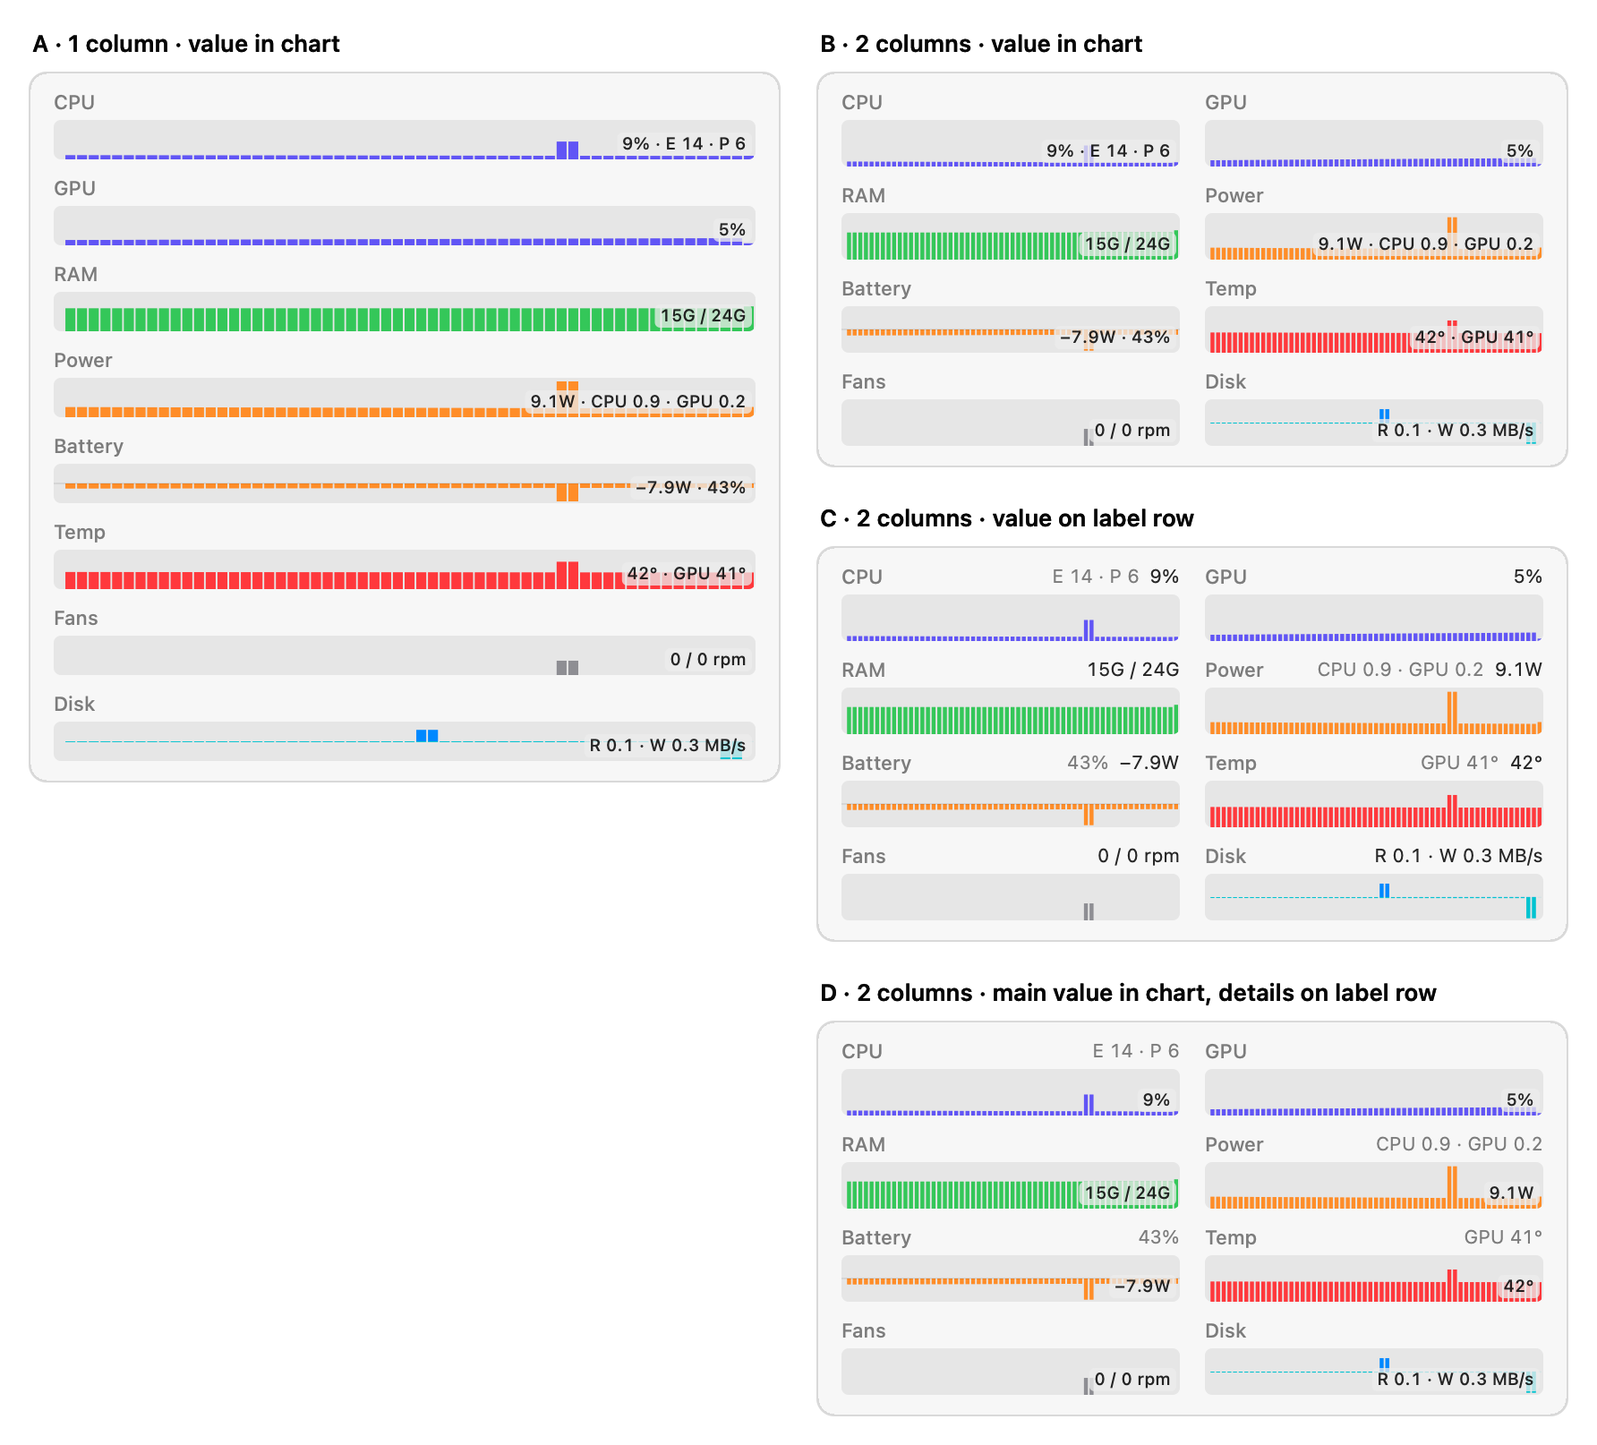
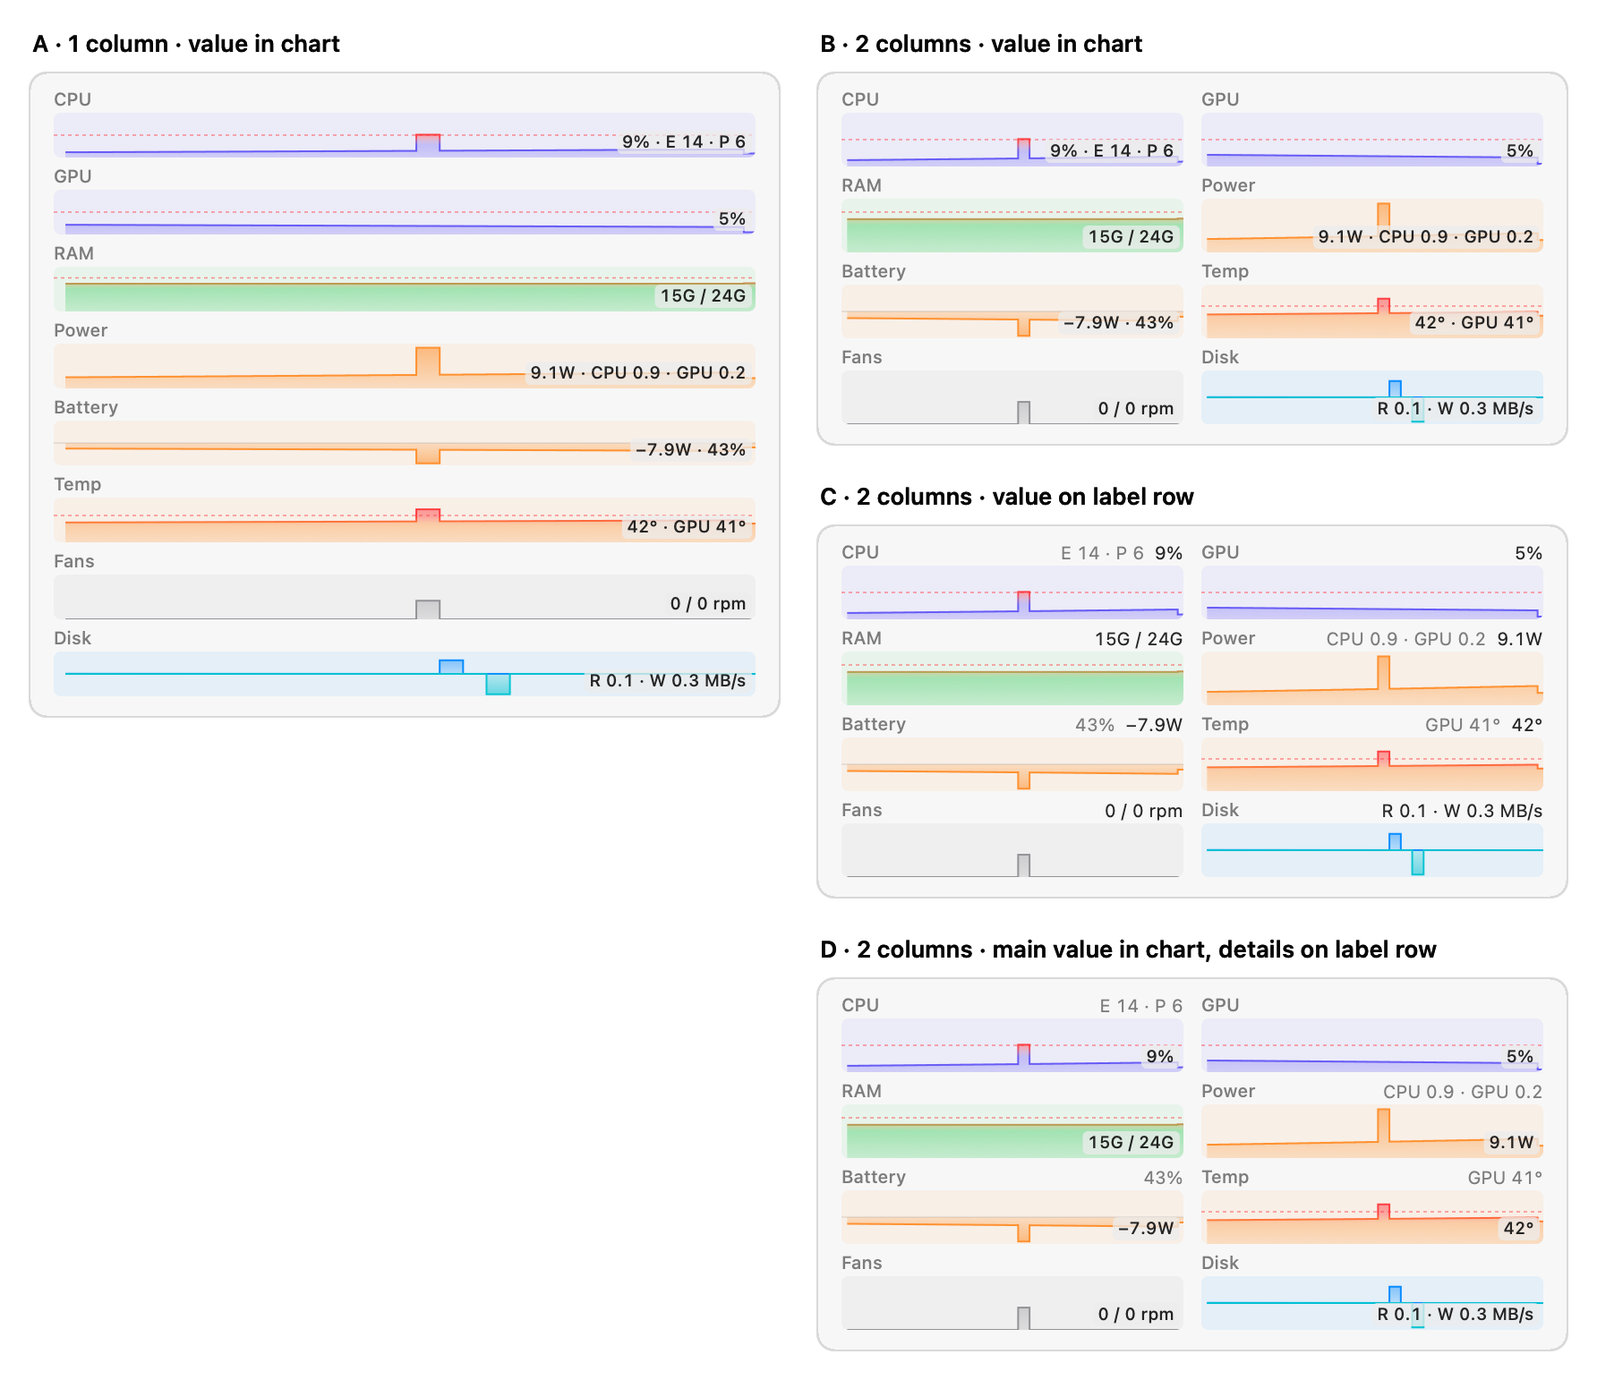
Charts: warning colors
Bars blend from the chart's color into red over the last quarter of the
scale below the warning limit, and are fully red at the limit and above.
The color follows the value, not the bar's height, so it means the same
on a zoomed-in scale. The blend is mixed in OKLab, so it changes evenly
instead of passing through a brighter band.

Values at or over a limit show in red, live and when hovering, as in the
menu bar. Temp is now orange so its red stands out.

Snapshot mode also renders the menu with values over the limits
(dropdown-warning-*.png). README and screenshots updated.

diff --git a/Sources/MacMonIndicator/ChartsView.swift b/Sources/MacMonIndicator/ChartsView.swift
@@ -138,6 +138,8 @@ final class ChartsView: NSView {
                                                               .foregroundColor: NSColor.secondaryLabelColor]
     private let chipAttrs: [NSAttributedString.Key: Any] = [.font: NSFont.monospacedDigitSystemFont(ofSize: 9.5, weight: .medium),
                                                             .foregroundColor: NSColor.labelColor]
+    private lazy var hotMainAttrs = mainAttrs.merging([.foregroundColor: NSColor.systemRed]) { $1 }
+    private lazy var hotChipAttrs = chipAttrs.merging([.foregroundColor: NSColor.systemRed]) { $1 }
 
     override init(frame: NSRect) {
         super.init(frame: frame)
@@ -265,9 +267,10 @@ final class ChartsView: NSView {
                 history.window(tier: tier, series: down, now: now, avg: &avgBuf2, max: &maxBuf2)
             }
             let r = range(row)
+            let limit = row.limit?(thresholds, latest)
             switch row.shape {
             case .up:
-                drawBars(ctx, rect, bw, avgBuf, maxBuf, r.lo, r.hi, row.color, from: .bottom)
+                drawBars(ctx, rect, bw, avgBuf, maxBuf, r.lo, r.hi, row.color, from: .bottom, warn: warnRange(row, limit: limit))
             case .signed:
                 drawBars(ctx, rect, bw, avgBuf, maxBuf, 0, r.hi, row.color, from: .center)
             case .mirrored:
@@ -278,7 +281,7 @@ final class ChartsView: NSView {
             }
 
             // Warning limit as a dashed line, if it is inside the visible range.
-            if let limit = row.limit?(thresholds, latest), limit > r.lo, limit < r.hi {
+            if let limit, limit > r.lo, limit < r.hi {
                 let y = rect.maxY - CGFloat((limit - r.lo) / (r.hi - r.lo)) * rect.height
                 ctx.setStrokeColor(NSColor.systemRed.withAlphaComponent(0.55).cgColor)
                 ctx.setLineWidth(0.75)
@@ -310,9 +313,9 @@ final class ChartsView: NSView {
             ctx.restoreGState()
 
             if offscreen {
-                let v = values(row, now: now)
+                let v = values(row, now: now, thresholds: thresholds)
                 if let line = labelLine(v, c) { drawLabel(v, line) }
-                if let chip = v.chip { drawChip(chip, at: chipRect(chip, in: rect)) }
+                if let chip = v.chip { drawChip(chip, at: chipRect(chip, in: rect), hot: v.hot) }
             }
         }
     }
@@ -322,21 +325,27 @@ final class ChartsView: NSView {
     /// The value texts of one chart, placed as the layout setting says.
     fileprivate struct Values: Equatable {
         var labelMain: String?, labelDetail: String?, chip: String?
+        /// The main value is at or over the warning limit: it shows in red, as in the menu bar.
+        var hot = false
     }
 
     /// Values at the hovered moment, or live.
-    private func values(_ row: Row, now: TimeInterval) -> Values {
-        let t: (main: String, detail: String?)
+    private func values(_ row: Row, now: TimeInterval, thresholds: Thresholds) -> Values {
+        let value: (Series) -> Float, live: Sample?
         if let h = hoverIndex, let history {
-            t = row.text({ history.value(tier: self.tier, series: $0, index: h, now: now) }, nil)
+            value = { history.value(tier: self.tier, series: $0, index: h, now: now) }
+            live = nil
         } else {
-            let live = latest
-            t = row.text({ live?.value($0) ?? .nan }, live)
+            let l = latest
+            value = { l?.value($0) ?? .nan }
+            live = l
         }
+        let t = row.text(value, live)
+        let hot = row.limit?(thresholds, latest).map { value(row.series) >= $0 } ?? false
         switch layout.value {
-        case .chart: return Values(chip: [t.main, t.detail].compactMap { $0 }.joined(separator: " · "))
-        case .label: return Values(labelMain: t.main, labelDetail: t.detail)
-        case .split: return Values(labelDetail: t.detail, chip: t.main)
+        case .chart: return Values(chip: [t.main, t.detail].compactMap { $0 }.joined(separator: " · "), hot: hot)
+        case .label: return Values(labelMain: t.main, labelDetail: t.detail, hot: hot)
+        case .split: return Values(labelDetail: t.detail, chip: t.main, hot: hot)
         }
     }
 
@@ -373,12 +382,12 @@ final class ChartsView: NSView {
         // Offscreen (snapshots) there are no layers to show; draw(_:) draws the values then.
         overlay.isHidden = window == nil
         guard window != nil else { return }
-        let cs = cells(), now = Date().timeIntervalSince1970
+        let cs = cells(), now = Date().timeIntervalSince1970, thresholds = Settings.shared.thresholds
         overlay.prepare(count: cs.count)
         for (c, l) in zip(cs, overlay.cells) {
             if let h = hoverIndex { l.cursor.frame = cursorRect(c, h) }
             l.cursor.isHidden = hoverIndex == nil
-            let v = values(c.row, now: now)
+            let v = values(c.row, now: now, thresholds: thresholds)
             guard v != l.values || c.chart != l.chart || c.origin != l.origin else { continue }
             l.values = v
             l.chart = c.chart
@@ -386,7 +395,7 @@ final class ChartsView: NSView {
             let line = labelLine(v, c)
             l.label.show(line?.rect) { [weak self] in if let line { self?.drawLabel(v, line) } }
             let chip = v.chip.map { (text: $0, rect: chipRect($0, in: c.chart)) }
-            l.chip.show(chip?.rect) { [weak self] in if let chip { self?.drawChip(chip.text, at: chip.rect) } }
+            l.chip.show(chip?.rect) { [weak self] in if let chip { self?.drawChip(chip.text, at: chip.rect, hot: v.hot) } }
         }
     }
 
@@ -403,9 +412,9 @@ final class ChartsView: NSView {
                          mainX: mainX, detailX: detailX)
     }
 
-    /// Main value in the label color, details dimmer before it.
+    /// Main value in the label color (red when over the limit), details dimmer before it.
     private func drawLabel(_ v: Values, _ line: LabelLine) {
-        (v.labelMain as NSString?)?.draw(at: NSPoint(x: line.mainX, y: line.rect.minY), withAttributes: mainAttrs)
+        (v.labelMain as NSString?)?.draw(at: NSPoint(x: line.mainX, y: line.rect.minY), withAttributes: v.hot ? hotMainAttrs : mainAttrs)
         (v.labelDetail as NSString?)?.draw(at: NSPoint(x: line.detailX, y: line.rect.minY), withAttributes: detailAttrs)
     }
 
@@ -416,12 +425,12 @@ final class ChartsView: NSView {
     }
 
     /// Small value chip, translucent so bars still show around it.
-    private func drawChip(_ text: String, at chip: CGRect) {
+    private func drawChip(_ text: String, at chip: CGRect, hot: Bool) {
         guard let ctx = NSGraphicsContext.current?.cgContext else { return }
         ctx.setFillColor(NSColor.windowBackgroundColor.withAlphaComponent(0.75).cgColor)
         ctx.addPath(CGPath(roundedRect: chip, cornerWidth: 3, cornerHeight: 3, transform: nil))
         ctx.fillPath()
-        (text as NSString).draw(at: NSPoint(x: chip.minX + 3, y: chip.minY + 0.5), withAttributes: chipAttrs)
+        (text as NSString).draw(at: NSPoint(x: chip.minX + 3, y: chip.minY + 0.5), withAttributes: hot ? hotChipAttrs : chipAttrs)
     }
 
     /// Over the charts: per chart a cursor layer, which only ever moves, and two small text
@@ -492,10 +501,27 @@ final class ChartsView: NSView {
 
     private enum Anchor { case bottom, top, center }
 
+    /// How far below the warning limit bars start turning red, as a share of the chart's full
+    /// (unzoomed) scale: 25 points for percentages and temperatures, a quarter of total RAM.
+    private static let warnBand: Float = 0.25
+
+    /// Where the red blend starts and ends for a row, or nil without a limit.
+    private func warnRange(_ row: Row, limit: Float?) -> (start: Float, limit: Float)? {
+        guard let limit, limit > 0 else { return nil }
+        var full = row.scale
+        if case .smart(_, let otherwise) = full { full = otherwise }
+        return (max(0, limit - Self.warnBand * range(row, full).hi), limit)
+    }
+
     /// Bars per bucket, no smoothing: a faint layer for the bucket max, a gradient fill for the
     /// average (strong at the tip, nearly clear at the base), and a crisp stepped edge on top.
+    ///
+    /// With a warning range (`warn`), the color follows the value: the chart's color below
+    /// `start`, blending into red up to `limit`, red from there up. It depends on the value, not on
+    /// the bar's height, so it means the same on a zoomed-in scale.
     private func drawBars(_ ctx: CGContext, _ rect: CGRect, _ bw: CGFloat, _ avg: [Float], _ mx: [Float],
-                          _ lo: Float, _ hi: Float, _ color: NSColor, from anchor: Anchor) {
+                          _ lo: Float, _ hi: Float, _ color: NSColor, from anchor: Anchor,
+                          warn: (start: Float, limit: Float)? = nil) {
         guard hi > lo else { return }
         // Buckets touch (a stepped area under the edge line); the slight overlap avoids hairline seams.
         let width = bw + 0.3
@@ -526,18 +552,44 @@ final class ChartsView: NSView {
         }
         let visible: (Float) -> Bool = { $0.isFinite && height($0) > 0.01 }
 
+        // Warning colors, only for upward bars and only when some value reaches the fade.
+        let heat: ((CGFloat, CGFloat) -> CGGradient?)? = {
+            guard anchor == .bottom, let warn, warn.limit > warn.start,
+                  mx.contains(where: { $0 > warn.start }) || avg.contains(where: { $0 > warn.start }) else { return nil }
+            return { top, bottom in
+                Self.heatGradient(color, lo: lo, hi: hi, fadeStart: warn.start, limit: warn.limit, alpha: (top, bottom))
+            }
+        }()
+        /// Fills the current path with a top-to-bottom gradient over the chart.
+        func fill(_ gradient: CGGradient) {
+            ctx.saveGState()
+            ctx.clip()
+            ctx.drawLinearGradient(gradient, start: CGPoint(x: 0, y: rect.minY), end: CGPoint(x: 0, y: rect.maxY), options: [])
+            ctx.restoreGState()
+        }
+
         // Peaks: faint solid bars.
-        ctx.setFillColor(color.withAlphaComponent(0.16).cgColor)
-        ctx.beginPath()
-        for (i, v) in mx.enumerated() where visible(v) { ctx.addRect(barRect(i, v)) }
-        ctx.fillPath()
+        let peaks = CGMutablePath()
+        for (i, v) in mx.enumerated() where visible(v) { peaks.addRect(barRect(i, v)) }
+        if !peaks.isEmpty {
+            ctx.addPath(peaks)
+            if let g = heat?(0.16, 0.16) {
+                fill(g)
+            } else {
+                ctx.setFillColor(color.withAlphaComponent(0.16).cgColor)
+                ctx.fillPath()
+            }
+        }
 
         // Average: gradient fill, clipped to the bars.
         let path = CGMutablePath()
         for (i, v) in avg.enumerated() where visible(v) { path.addRect(barRect(i, v)) }
-        if !path.isEmpty, let gradient = CGGradient(colorsSpace: nil, colors: [color.withAlphaComponent(0.5).cgColor,
-                                                                             color.withAlphaComponent(0.04).cgColor] as CFArray,
-                                                   locations: [0, 1]) {
+        if !path.isEmpty, let g = heat?(0.5, 0.04) {
+            ctx.addPath(path)
+            fill(g)
+        } else if !path.isEmpty, let gradient = CGGradient(colorsSpace: nil, colors: [color.withAlphaComponent(0.5).cgColor,
+                                                                                    color.withAlphaComponent(0.04).cgColor] as CFArray,
+                                                          locations: [0, 1]) {
             ctx.saveGState()
             ctx.addPath(path)
             ctx.clip()
@@ -562,16 +614,48 @@ final class ChartsView: NSView {
             edge.addLine(to: CGPoint(x: x + bw, y: y))
             last = i
         }
-        ctx.setStrokeColor(color.withAlphaComponent(0.95).cgColor)
         ctx.setLineWidth(1)
         ctx.setLineJoin(.miter)
         ctx.addPath(edge)
-        ctx.strokePath()
+        if !edge.isEmpty, let g = heat?(0.95, 0.95) {
+            ctx.replacePathWithStrokedPath()
+            fill(g)
+        } else {
+            ctx.setStrokeColor(color.withAlphaComponent(0.95).cgColor)
+            ctx.strokePath()
+        }
 
         if anchor == .center {
             ctx.setFillColor(NSColor.labelColor.withAlphaComponent(0.15).cgColor)
             ctx.fill(CGRect(x: rect.minX, y: rect.midY - 0.25, width: rect.width, height: 0.5))
         }
+    }
+
+    /// A top-to-bottom gradient over a chart showing `lo...hi`, colored by the value at each height:
+    /// `color` below `fadeStart`, red from `limit` up, blended in between. The blend is mixed in
+    /// OKLab, so it changes evenly (purple → rose → red) instead of passing through a brighter
+    /// magenta. Alpha runs from `alpha.top` to `alpha.bottom`.
+    private static func heatGradient(_ color: NSColor, lo: Float, hi: Float, fadeStart: Float, limit: Float,
+                                     alpha: (top: CGFloat, bottom: CGFloat)) -> CGGradient? {
+        guard let a = color.usingColorSpace(.sRGB), let b = NSColor.systemRed.usingColorSpace(.sRGB) else { return nil }
+        let span = hi - lo
+        // Position from the top (0) to the bottom (1) of the value v.
+        func loc(_ v: Float) -> CGFloat { CGFloat(min(1, max(0, (hi - v) / span))) }
+        let la = OKLab(a), lb = OKLab(b)
+        func colorAt(_ l: CGFloat) -> CGColor {
+            let v = hi - Float(l) * span
+            let x = CGFloat(min(1, max(0, (v - fadeStart) / (limit - fadeStart))))
+            let w = x * x * (3 - 2 * x) // eases in and out of the blend
+            let mix = { (p: CGFloat, q: CGFloat) in p + (q - p) * w }
+            return OKLab(L: mix(la.L, lb.L), a: mix(la.a, lb.a), b: mix(la.b, lb.b))
+                .cgColor(alpha: alpha.top + (alpha.bottom - alpha.top) * l)
+        }
+        // Outside the blend the color is constant, so the ends and a few steps inside it are enough.
+        let top = loc(limit), bottom = loc(fadeStart)
+        var stops: [CGFloat] = [0, 1, top, bottom]
+        if bottom > top { stops += (1..<8).map { top + (bottom - top) * CGFloat($0) / 8 } }
+        stops = Array(Set(stops)).sorted()
+        return CGGradient(colorsSpace: CGColorSpace(name: CGColorSpace.sRGB), colors: stops.map(colorAt) as CFArray, locations: stops)
     }
 }
 
@@ -606,7 +690,7 @@ extension ChartsView {
                     (Fmt.signedWatts(v(.batteryW)), Fmt.pct(v(.batteryPct)))
                 }.with(axis: Fmt.signedWatts)
             case .temp:
-                return Row(id: id, series: .cpuTemp, shape: .up, scale: .smart(minSpan: 6, otherwise: .fixed(100)), color: .systemRed, color2: nil) { v, _ in
+                return Row(id: id, series: .cpuTemp, shape: .up, scale: .smart(minSpan: 6, otherwise: .fixed(100)), color: .systemOrange, color2: nil) { v, _ in
                     (Fmt.temp(v(.cpuTemp)), "GPU " + Fmt.temp(v(.gpuTemp)))
                 }.with(axis: Fmt.temp, limit: { t, _ in t.temp })
             case .fans:
@@ -623,5 +707,38 @@ extension ChartsView {
                 }.with(axis: { Fmt.num($0) + " MB/s" })
             }
         }
+    }
+}
+
+/// A color in OKLab, a color space where equal steps look like equal changes. Mixing two colors
+/// here gives an even blend, without the brighter band a mix of hues (HSB) gives.
+private struct OKLab {
+    var L: CGFloat, a: CGFloat, b: CGFloat
+
+    init(L: CGFloat, a: CGFloat, b: CGFloat) { self.L = L; self.a = a; self.b = b }
+
+    /// From an sRGB color.
+    init(_ c: NSColor) {
+        func linear(_ x: CGFloat) -> CGFloat { x <= 0.04045 ? x / 12.92 : pow((x + 0.055) / 1.055, 2.4) }
+        let r = linear(c.redComponent), g = linear(c.greenComponent), bl = linear(c.blueComponent)
+        let l = cbrt(0.4122214708 * r + 0.5363325363 * g + 0.0514459929 * bl)
+        let m = cbrt(0.2119034982 * r + 0.6806995451 * g + 0.1073969566 * bl)
+        let s = cbrt(0.0883024619 * r + 0.2817188376 * g + 0.6299787005 * bl)
+        L = 0.2104542553 * l + 0.7936177850 * m - 0.0040720468 * s
+        a = 1.9779984951 * l - 2.4285922050 * m + 0.4505937099 * s
+        b = 0.0259040371 * l + 0.7827717662 * m - 0.8086757660 * s
+    }
+
+    func cgColor(alpha: CGFloat) -> CGColor {
+        let l = pow(L + 0.3963377774 * a + 0.2158037573 * b, 3)
+        let m = pow(L - 0.1055613458 * a - 0.0638541728 * b, 3)
+        let s = pow(L - 0.0894841775 * a - 1.2914855480 * b, 3)
+        func encode(_ x: CGFloat) -> CGFloat {
+            let x = min(1, max(0, x))
+            return x <= 0.0031308 ? 12.92 * x : 1.055 * pow(x, 1 / 2.4) - 0.055
+        }
+        return CGColor(srgbRed: encode(4.0767416621 * l - 3.3077115913 * m + 0.2309699292 * s),
+                       green: encode(-1.2684380046 * l + 2.6097574011 * m - 0.3413193965 * s),
+                       blue: encode(-0.0041960863 * l - 0.7034186147 * m + 1.7076147010 * s), alpha: alpha)
     }
 }

diff --git a/Sources/MacMonIndicator/SnapshotMode.swift b/Sources/MacMonIndicator/SnapshotMode.swift
@@ -33,6 +33,12 @@ enum SnapshotMode {
                 renderStatus(hot, appearance: appearance, to: "\(outputDir)/menubar-warning-\(name).png")
                 renderDashboard(history: history, sample: s, procs: procSnap, hasBattery: source.hasBattery,
                                 appearance: appearance, to: "\(outputDir)/dropdown-\(name).png")
+                // Values over the warning limits, to check the red values and bars.
+                var busy = hot
+                busy.cpu = 97
+                busy.ramUsedGB = busy.ramTotalGB * 0.95
+                renderDashboard(history: history, sample: busy, procs: procSnap, hasBattery: source.hasBattery,
+                                appearance: appearance, to: "\(outputDir)/dropdown-warning-\(name).png")
             }
             pm.stop()
             try? FileManager.default.removeItem(at: tmp)

diff --git a/README.md b/README.md
@@ -17,8 +17,9 @@ _Screenshots use demo history and demo process names._
 - **Menu**: a native macOS menu, so it has the same glass look as your other menu bar menus. It holds
   filled bar charts for 5m (default) / 1h / 24h / 7d / 30d in one or two columns. You choose which
   charts appear and in what order, and where the values go (in the chart, on the label row, or split).
-  The solid bar is the average, the faint bar is the peak, so short spikes stay visible.
-  Hover to read values at any moment. **Click a chart** to see it alone at full width with its
+  The solid bar is the average, the faint bar is the peak, so short spikes stay visible. CPU, GPU,
+  RAM and Temp bars blend into red as they near your warning limits, and values past a limit show
+  in red. Hover to read values at any moment. **Click a chart** to see it alone at full width with its
   scale; click again to go back. Chart height is adjustable.
 - **Top processes**: CPU, RAM and disk. By default you get the top 2 of each; click a column to see
   the top 6 by that column (click again to go back).
@@ -179,6 +180,10 @@ sudo rm -f /Library/LaunchDaemons/local.MacMonIndicator.helper.plist /Library/Pr
   0 to the highest value in view. Turn on **Settings → Zoom Temp and RAM** to scale those two to
   the range their data covers. Small labels then show the highest and lowest values in view. A
   dashed red line marks your warning limit whenever it falls inside the visible range.
+- **Warning colors** in the charts follow the value, not the bar's height, so they mean the same on
+  any scale. Bars blend from the chart's own color into red over the last quarter of the scale
+  below your limit (25 points for CPU, GPU and Temp, a quarter of total RAM), and are fully red at
+  the limit and above. Temp is orange so that its red stands out.
 
 ## Troubleshooting
 
